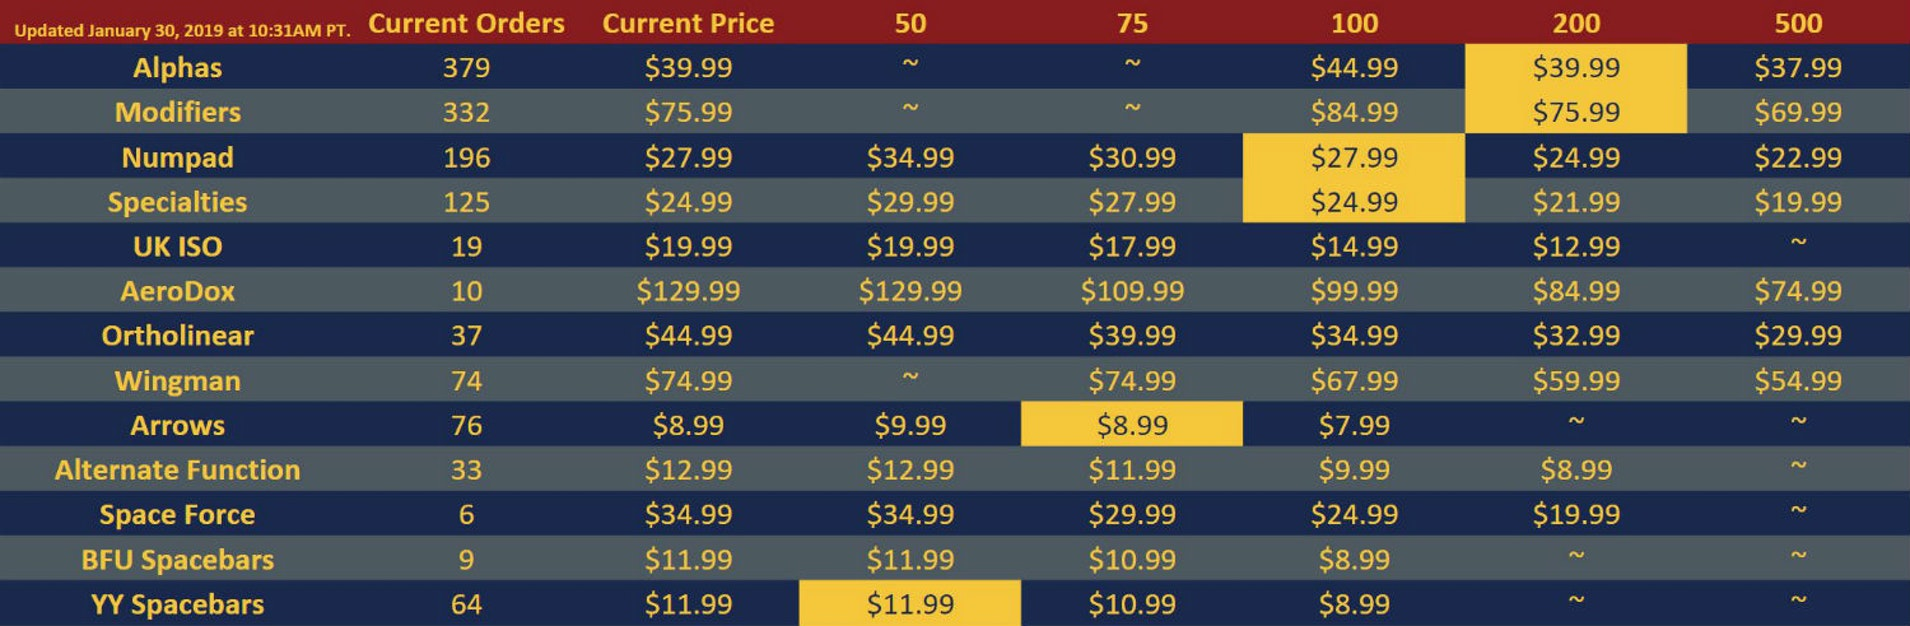
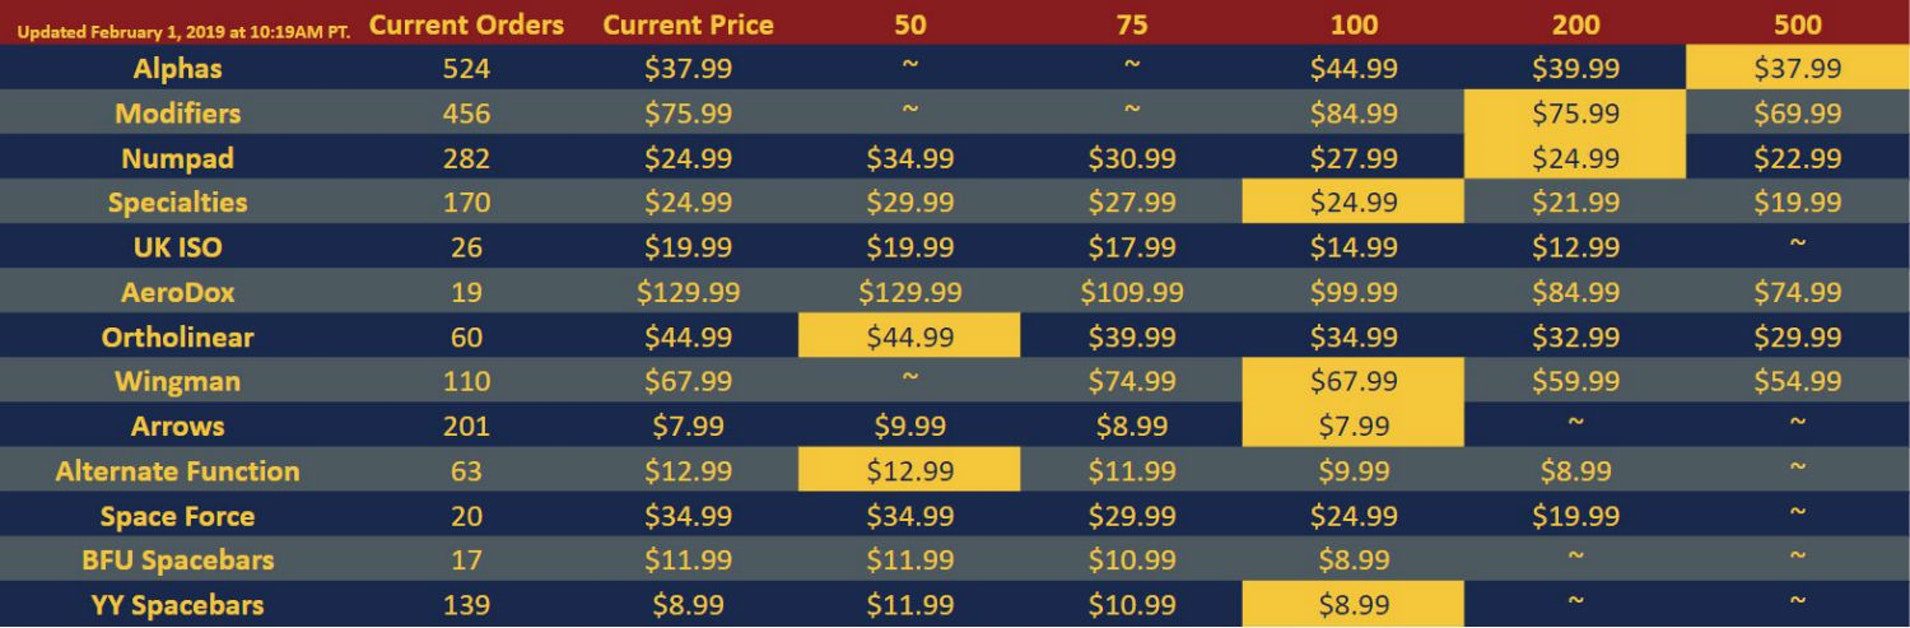
There are 4 files have been modified at 2019-02-12 15:03:44 . 	-rw-r--r-- 1 jzou ops 240592 Feb 12 15:03 price.jpg 	-rw-r--r-- 1 jzou ops 4965 Feb 12 15:02 ../../../../docs/sa-keycaps/Danger-Zone-R2.md 	-rw-r--r-- 1 jzou ops 522 Feb 12 03:37 ../../../../rawdata/sa/dangerzoner2 	-rwxr-xr-x 1 jzou ops

diff --git a/script/generate_md.py b/script/generate_md.py
@@ -69,15 +69,15 @@ link = lines[8].split("'")[1]
 keycapPath = '/home/jzou/keyboard/web/docs/%s-keycaps/' % keycapstype.lower()
 navOrder = ( len([eachfile for eachfile in os.listdir(keycapPath) if os.path.isfile(os.path.join(keycapPath, eachfile))]) - 1) * 5 + 10000
 
-# key: name, usd, rmb, proxyprice, quantity
+# key: name, usd, rmb, quantity
 priceDict = {}
 sn = 1
 for line in lines[9:]:
     lengthLine = len(line.split("|"))
-    if lengthLine == 6:
+    if lengthLine == 5:
 	hasQuantity = True
     else:
-	hasQuantity = False
+	hasQuantity = False 
 
     kitName = line.split("|")[0]
 
@@ -95,19 +95,13 @@ for line in lines[9:]:
     else:
     	kitRMB = 'unknown'
 
-    kitPlatformPrice = line.split("|")[3]
-    if platform:
-        if len(kitPlatformPrice) < 1:
-            kitPlatformPrice = 'unknown'
-        else:
-            float(kitPlatformPrice)
-
     if hasQuantity:
-        kitQuantity = line.split("|")[4]
+        kitQuantity = line.split("|")[3]
+        
 	if len(kitQuantity) < 1:
 	    kitQuantity = 'unknown'
 	else:
-	    int(kitQuantity)
+	    kitQuantity = int(kitQuantity)
 
     if hasQuantity:
 	priceDict[sn] = [kitName, kitUSD, kitRMB, kitQuantity]
@@ -168,10 +162,10 @@ for i in priceDict:
     # check USD
     if isinstance(priceDict[i][1], float):
         printPriceFormat = "|[%s](#%s)|%.2f|"
-        printKitFormat = "**Price(USD):** %.2f    "
+        printKitFormat = "**Price(%s):** %.2f    "
     else:
         printPriceFormat = "|[%s](#%s)|%s|"
-        printKitFormat = "**Price(USD):** %s    "
+        printKitFormat = "**Price(%s):** %s    "
 
     # check RMB
     if isinstance(priceDict[i][2], float):
@@ -181,19 +175,9 @@ for i in priceDict:
         printPriceFormat = printPriceFormat + "%s|"
         printKitFormat = printKitFormat + "**Price(RMB):** %s    "
 
-    # check PlateformPrice
-    if platform: 
-        try: 
-            priceDict[i][3] = float(priceDict[i][3])
-            printPriceFormat = printPriceFormat + "%.2f|"
-            printKitFormat = printKitFormat + "**Price(%s):** %.2f    "
-        except:
-            printPriceFormat = printPriceFormat + "%s|"
-            printKitFormat = printKitFormat + "**Price(%s):** %s    "
-
     # check Quantity
     if hasQuantity:
-        if isinstance(priceDict[i][4], int):
+        if isinstance(priceDict[i][3], int):
             printPriceFormat = printPriceFormat + "%d|"
             printKitFormat = printKitFormat + "**Quantity:** %d  "
         else:
@@ -201,9 +185,9 @@ for i in priceDict:
             printKitFormat = printKitFormat + "**Quantity:** %s  "
 
     if hasQuantity:
-        print printPriceFormat % (priceDict[i][0], priceDict[i][0].lower().replace(" ",""), priceDict[i][1], priceDict[i][2], priceDict[i][3], priceDict[i][4])
+        print printPriceFormat % (priceDict[i][0], priceDict[i][0].lower().replace(" ","-"), priceDict[i][1], priceDict[i][2], priceDict[i][3])
     else:
-        print printPriceFormat % (priceDict[i][0], priceDict[i][0].lower().replace(" ",""), priceDict[i][1], priceDict[i][2], 'unknown')
+        print printPriceFormat % (priceDict[i][0], priceDict[i][0].lower().replace(" ","-"), priceDict[i][1], priceDict[i][2], 'unknown')
 
 priceRelFilePath = 'assets/images/%s-keycaps/%s/price.jpg' % ( keycapstype.lower(), name.lower().replace(" ","") )
 priceAbsFilePath = os.path.join('/home/juzou/documents/matrixzj.github.io', priceRelFilePath)
@@ -218,7 +202,7 @@ print '## Kits'
 for i in priceDict:
     print '### %s' % priceDict[i][0]
     if hasQuantity:
-        print printKitFormat % (priceDict[i][1], priceDict[i][2], platform, priceDict[i][3], priceDict[i][4])
+        print printKitFormat % ( platform, priceDict[i][1], priceDict[i][2], priceDict[i][3])
     else:
     	print printKitFormat % (priceDict[i][1], priceDict[i][2], platform, 'unknown')
 

diff --git a/docs/sa-keycaps/Danger-Zone-R2.md b/docs/sa-keycaps/Danger-Zone-R2.md
@@ -21,73 +21,73 @@ NOTE: USD to RMB exchange rate is 6.80
 
 | Name          | Price(MD)    |  Price(RMB) | Quantity |
 | ------------- | ------------ |  ---------- | -------- |
-|[Alphas](#alphas)|39.99|271.93|unknown|
-|[Modifiers](#modifiers)|75.99|516.73|unknown|
-|[Numpad](#numpad)|27.99|190.33|unknown|
-|[Specialties](#specialties)|24.99|169.93|unknown|
-|[UK ISO](#ukiso)|19.99|135.93|unknown|
-|[AeroDox](#aerodox)|129.99|883.93|unknown|
-|[Ortholinear](#ortholinear)|44.99|305.93|unknown|
-|[Wingman](#wingman)|74.99|509.93|unknown|
-|[Arrows](#arrows)|8.99|61.13|unknown|
-|[Alternate Function](#alternate-function)|12.99|88.33|unknown|
-|[Space Force](#space-force)|12.99|88.33|unknown|
-|[BFU Spacebars](#bfu-spacebars)|11.99|81.53|unknown|
-|[YY Spacebars](#yy-spacebars)|11.99|81.53|unknown|
+|[Alphas](#alphas)|39.99|271.93|524|
+|[Modifiers](#modifiers)|75.99|516.73|456|
+|[Numpad](#numpad)|27.99|190.33|282|
+|[Specialties](#specialties)|24.99|169.93|170|
+|[UK ISO](#uk-iso)|19.99|135.93|26|
+|[AeroDox](#aerodox)|129.99|883.93|19|
+|[Ortholinear](#ortholinear)|44.99|305.93|60|
+|[Wingman](#wingman)|74.99|509.93|110|
+|[Arrows](#arrows)|8.99|61.13|201|
+|[Alternate Funtion](#alternate-funtion)|12.99|88.33|63|
+|[Space Force](#space-force)|12.99|88.33|20|
+|[BFU Spacebars](#bfu-spacebars)|11.99|81.53|17|
+|[YY Spacebars](#yy-spacebars)|11.99|81.53|139|
 
 <img src="{{ 'assets/images/sa-keycaps/dangerzoner2/price.jpg' | relative_url }}" atl="price" class="image featured">
 
 ## Kits
 ### Alphas
-**Price(USD):** 39.99    **Price(RMB):** 271.93    **Price(MD):** unknown
+**Price(MD):** 39.99    **Price(RMB):** 271.93    **Quantity:** 524
 <img src="{{ 'assets/images/sa-keycaps/dangerzoner2/kits_pics/alphas.jpg' | relative_url }}" alt="Alphas" class="image featured">
 
 ### Modifiers
-**Price(USD):** 75.99    **Price(RMB):** 516.73    **Price(MD):** unknown
+**Price(MD):** 75.99    **Price(RMB):** 516.73    **Quantity:** 456
 <img src="{{ 'assets/images/sa-keycaps/dangerzoner2/kits_pics/modifiers.jpg' | relative_url }}" alt="Modifiers" class="image featured">
 
 ### Numpad
-**Price(USD):** 27.99    **Price(RMB):** 190.33    **Price(MD):** unknown
+**Price(MD):** 27.99    **Price(RMB):** 190.33    **Quantity:** 282
 <img src="{{ 'assets/images/sa-keycaps/dangerzoner2/kits_pics/numpad.jpg' | relative_url }}" alt="Numpad" class="image featured">
 
 ### Specialties
-**Price(USD):** 24.99    **Price(RMB):** 169.93    **Price(MD):** unknown
+**Price(MD):** 24.99    **Price(RMB):** 169.93    **Quantity:** 170
 <img src="{{ 'assets/images/sa-keycaps/dangerzoner2/kits_pics/specialties.jpg' | relative_url }}" alt="Specialties" class="image featured">
 
 ### UK ISO
-**Price(USD):** 19.99    **Price(RMB):** 135.93    **Price(MD):** unknown
+**Price(MD):** 19.99    **Price(RMB):** 135.93    **Quantity:** 26
 <img src="{{ 'assets/images/sa-keycaps/dangerzoner2/kits_pics/uk-iso.jpg' | relative_url }}" alt="UK ISO" class="image featured">
 
 ### AeroDox
-**Price(USD):** 129.99    **Price(RMB):** 883.93    **Price(MD):** unknown
+**Price(MD):** 129.99    **Price(RMB):** 883.93    **Quantity:** 19
 <img src="{{ 'assets/images/sa-keycaps/dangerzoner2/kits_pics/aerodox.jpg' | relative_url }}" alt="AeroDox" class="image featured">
 
 ### Ortholinear
-**Price(USD):** 44.99    **Price(RMB):** 305.93    **Price(MD):** unknown
+**Price(MD):** 44.99    **Price(RMB):** 305.93    **Quantity:** 60
 <img src="{{ 'assets/images/sa-keycaps/dangerzoner2/kits_pics/ortholinear.jpg' | relative_url }}" alt="Ortholinear" class="image featured">
 
 ### Wingman
-**Price(USD):** 74.99    **Price(RMB):** 509.93    **Price(MD):** unknown
+**Price(MD):** 74.99    **Price(RMB):** 509.93    **Quantity:** 110
 <img src="{{ 'assets/images/sa-keycaps/dangerzoner2/kits_pics/wingman.jpg' | relative_url }}" alt="Wingman" class="image featured">
 
 ### Arrows
-**Price(USD):** 8.99    **Price(RMB):** 61.13    **Price(MD):** unknown
+**Price(MD):** 8.99    **Price(RMB):** 61.13    **Quantity:** 201
 <img src="{{ 'assets/images/sa-keycaps/dangerzoner2/kits_pics/arrows.jpg' | relative_url }}" alt="Arrows" class="image featured">
 
 ### Alternate Funtion
-**Price(USD):** 12.99    **Price(RMB):** 88.33    **Price(MD):** unknown
-<img src="{{ 'assets/images/sa-keycaps/dangerzoner2/kits_pics/alternate-function.jpg' | relative_url }}" alt="Alternate Funtion" class="image featured">
+**Price(MD):** 12.99    **Price(RMB):** 88.33    **Quantity:** 63
+<img src="{{ 'assets/images/sa-keycaps/dangerzoner2/kits_pics/alternate-funtion.png' | relative_url }}" alt="Alternate Funtion" class="image featured">
 
 ### Space Force
-**Price(USD):** 12.99    **Price(RMB):** 88.33    **Price(MD):** unknown
+**Price(MD):** 12.99    **Price(RMB):** 88.33    **Quantity:** 20
 <img src="{{ 'assets/images/sa-keycaps/dangerzoner2/kits_pics/space-force.jpg' | relative_url }}" alt="Space Force" class="image featured">
 
 ### BFU Spacebars
-**Price(USD):** 11.99    **Price(RMB):** 81.53    **Price(MD):** unknown
+**Price(MD):** 11.99    **Price(RMB):** 81.53    **Quantity:** 17
 <img src="{{ 'assets/images/sa-keycaps/dangerzoner2/kits_pics/bfu-spacebars.jpg' | relative_url }}" alt="BFU Spacebars" class="image featured">
 
 ### YY Spacebars
-**Price(USD):** 11.99    **Price(RMB):** 81.53    **Price(MD):** unknown
+**Price(MD):** 11.99    **Price(RMB):** 81.53    **Quantity:** 139
 <img src="{{ 'assets/images/sa-keycaps/dangerzoner2/kits_pics/yy-spacebars.jpg' | relative_url }}" alt="YY Spacebars" class="image featured">
 
 
